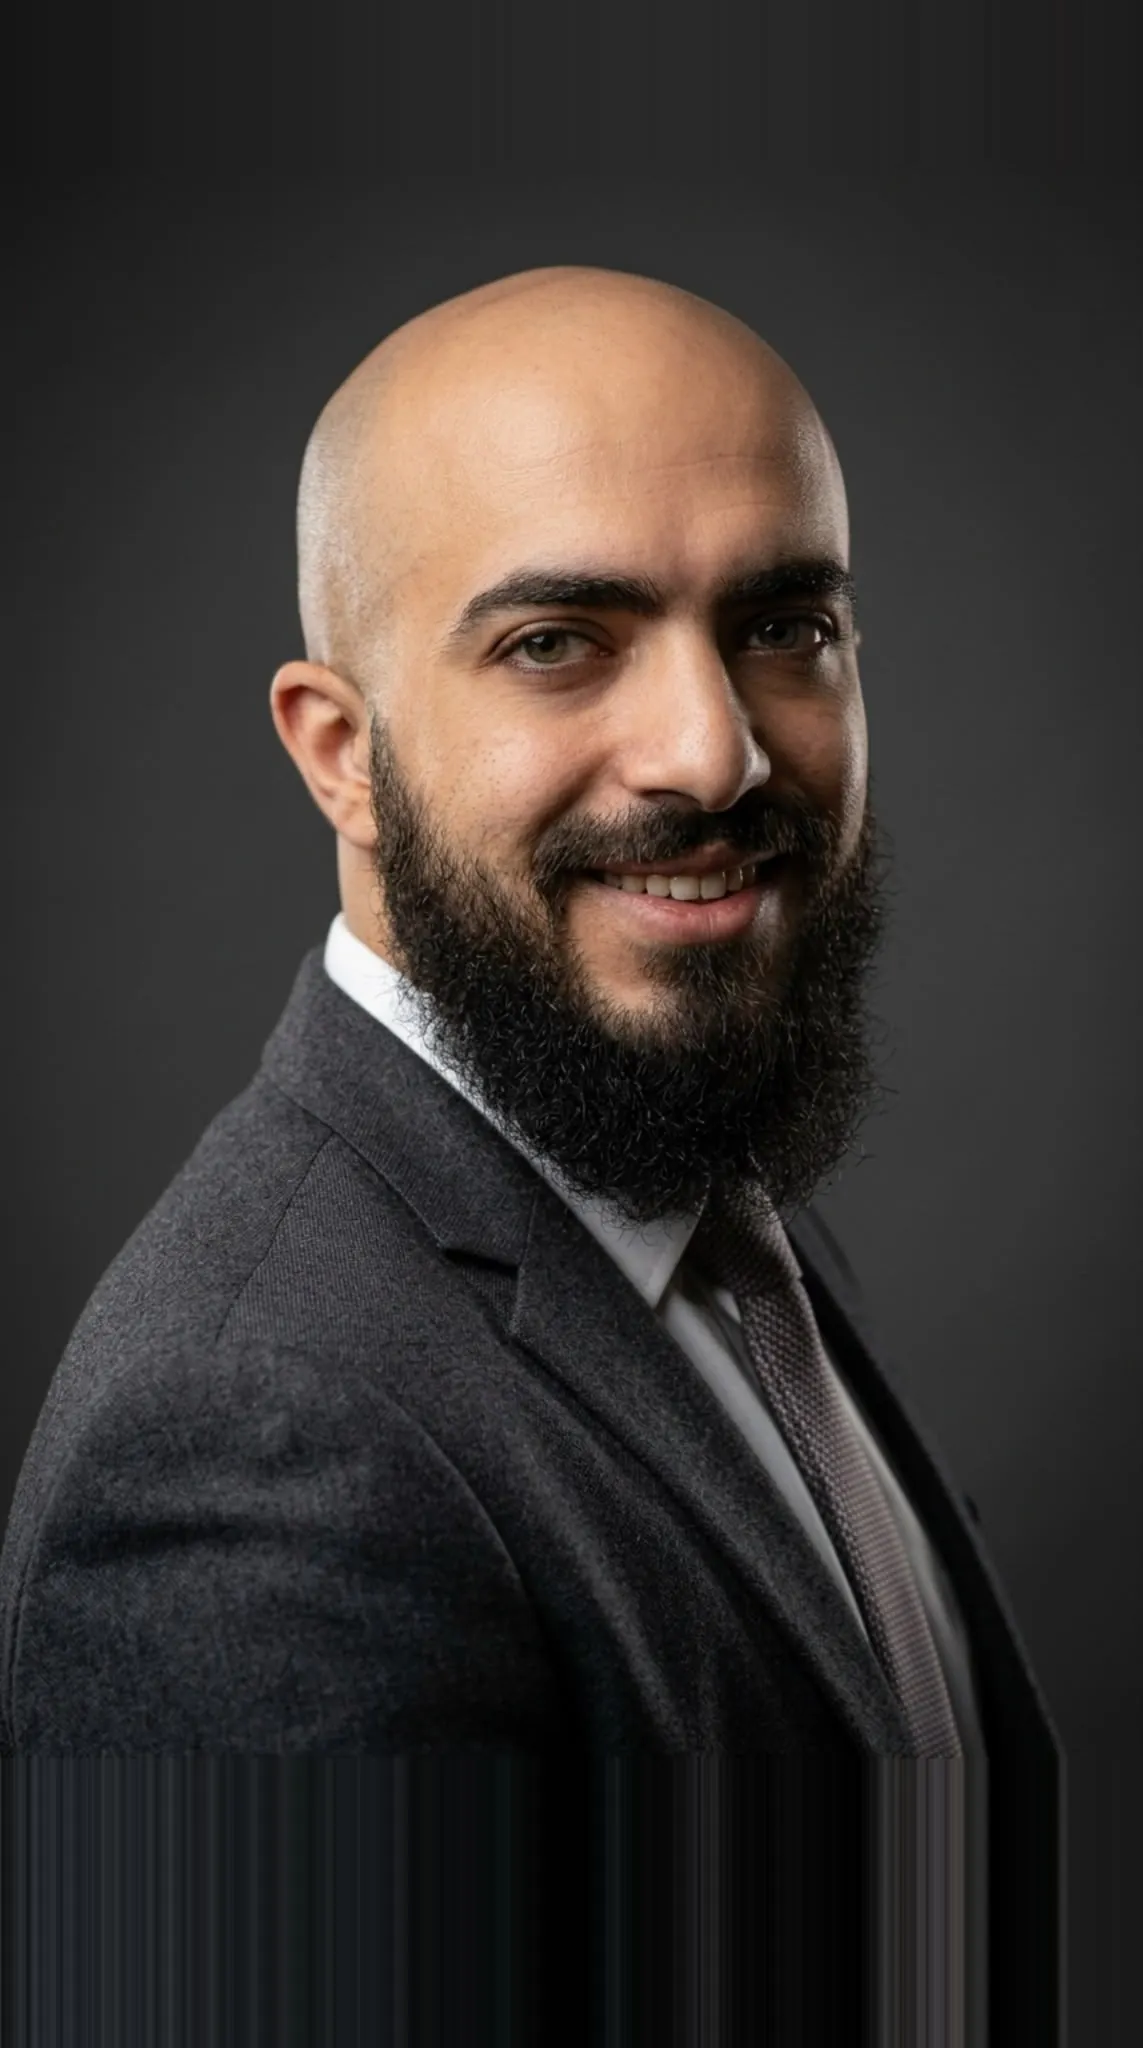
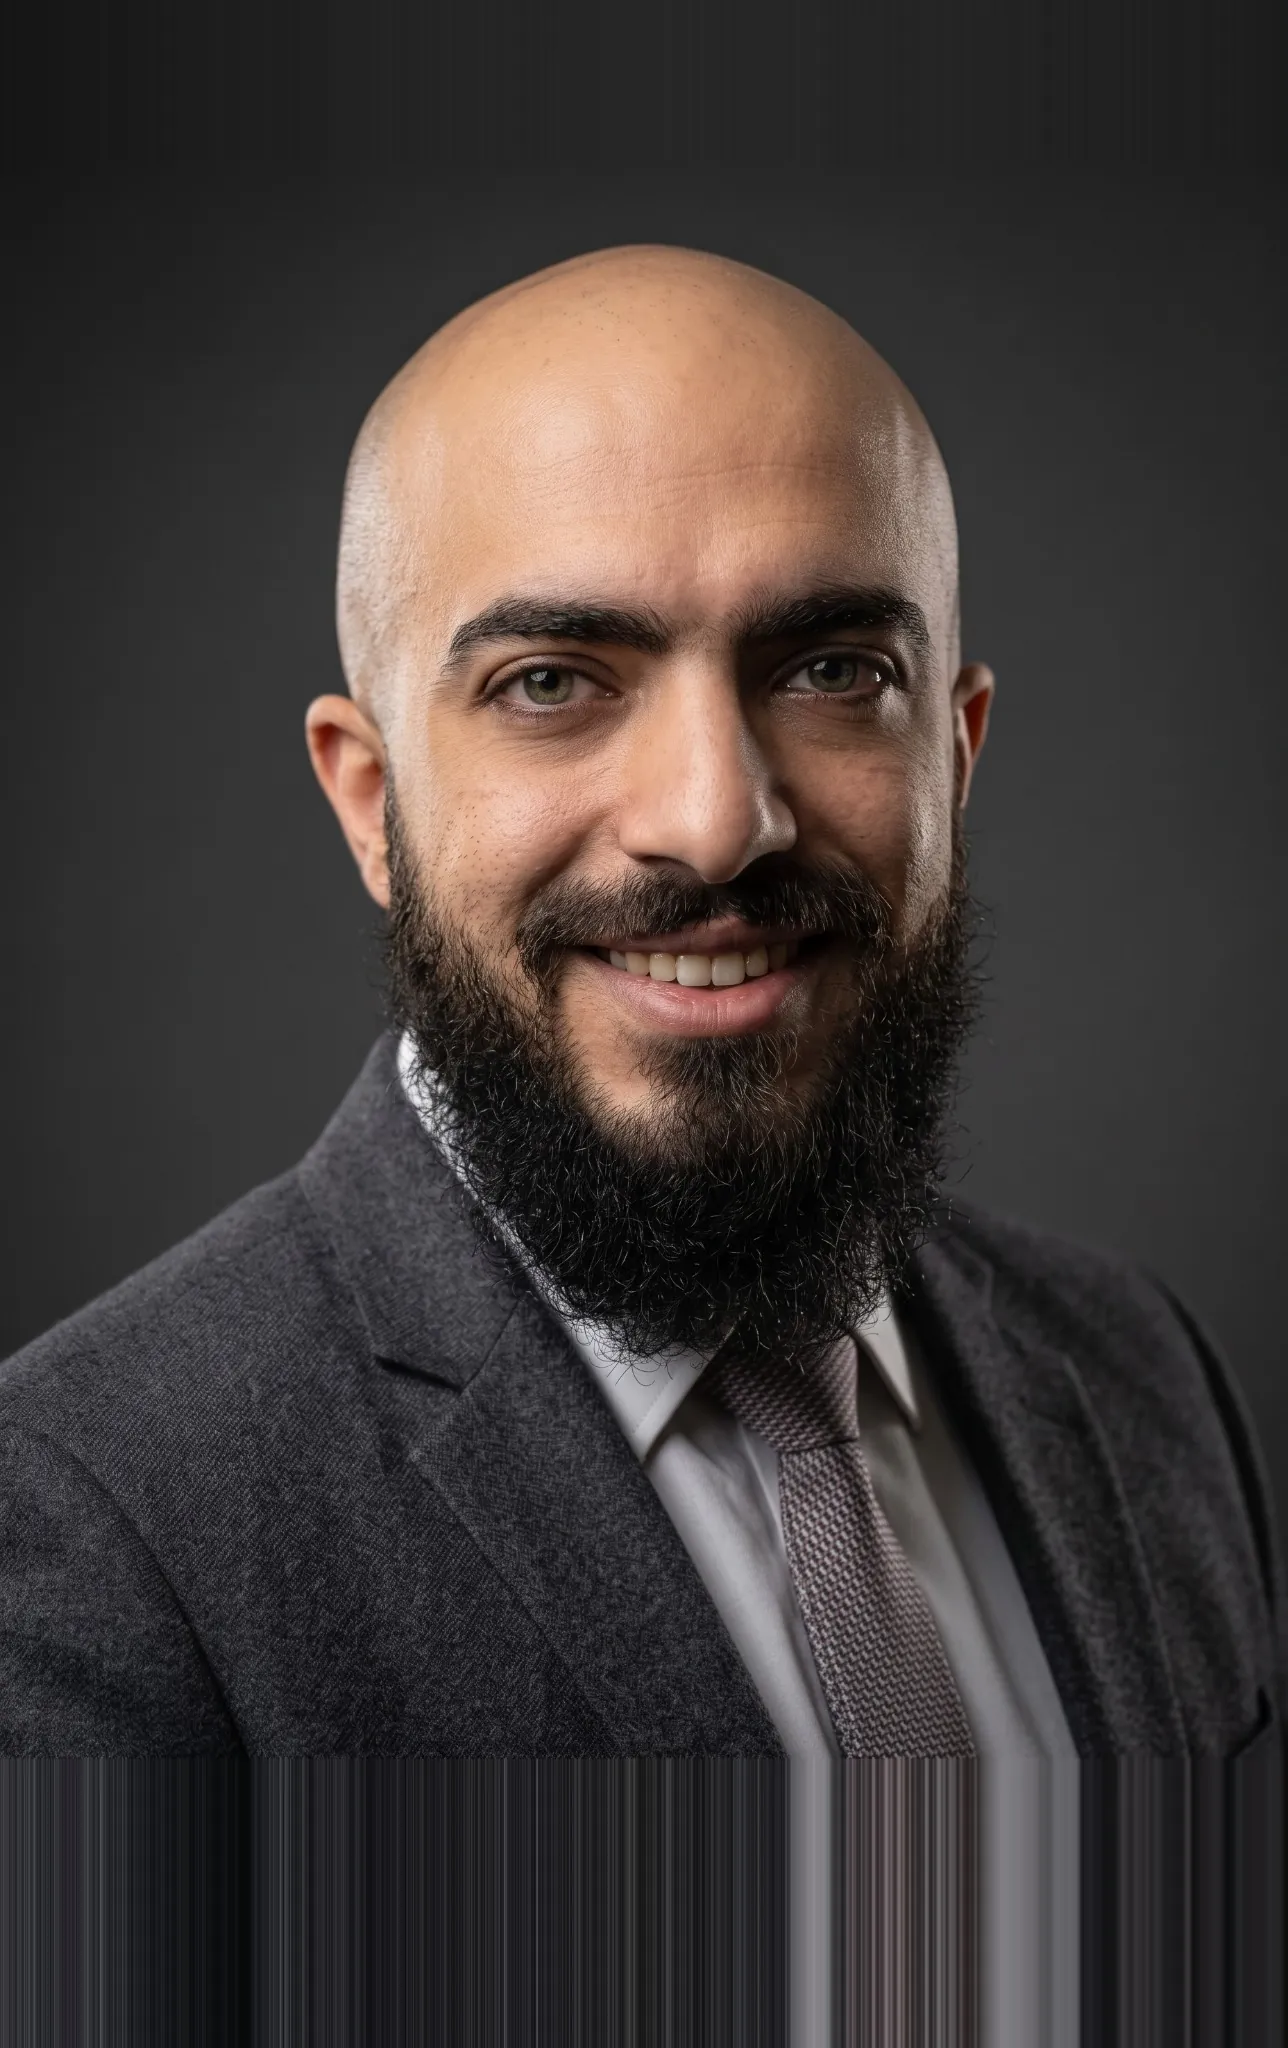
New photo for Ahmed, rename Beme to Yousef Ahmed
Same vertical edge-extension as the previous headshot so the framing
matches the rest of the roster.

diff --git a/src/data/team.ts b/src/data/team.ts
@@ -28,7 +28,7 @@ export const team: TeamMember[] = [
   },
   {
     id: 'member-beme',
-    name: 'Beme',
+    name: 'Yousef Ahmed',
     role: 'Co-Founder',
     bio: 'Full-stack engineer who loves clean architecture and elegant solutions. Believes great code is invisible — it just works. Brings systems thinking to every problem.',
     photo: '/team-beme.webp',
